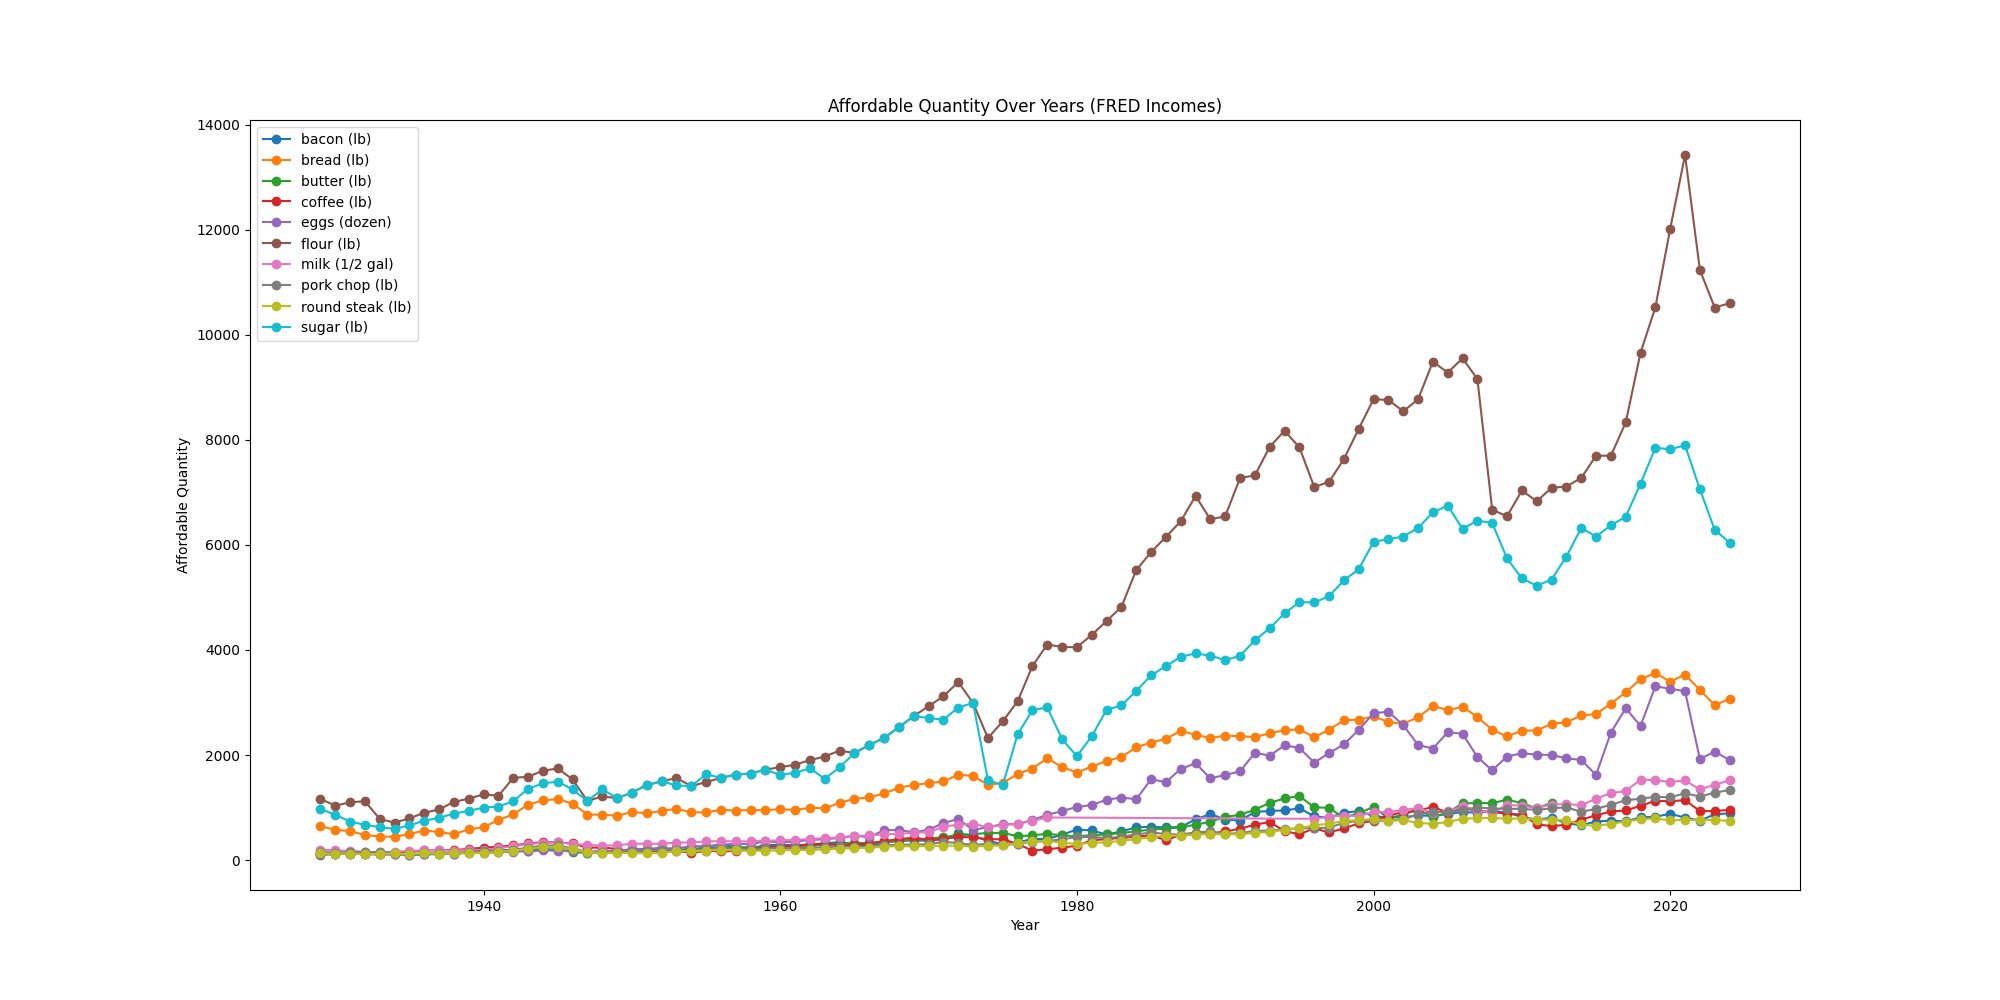
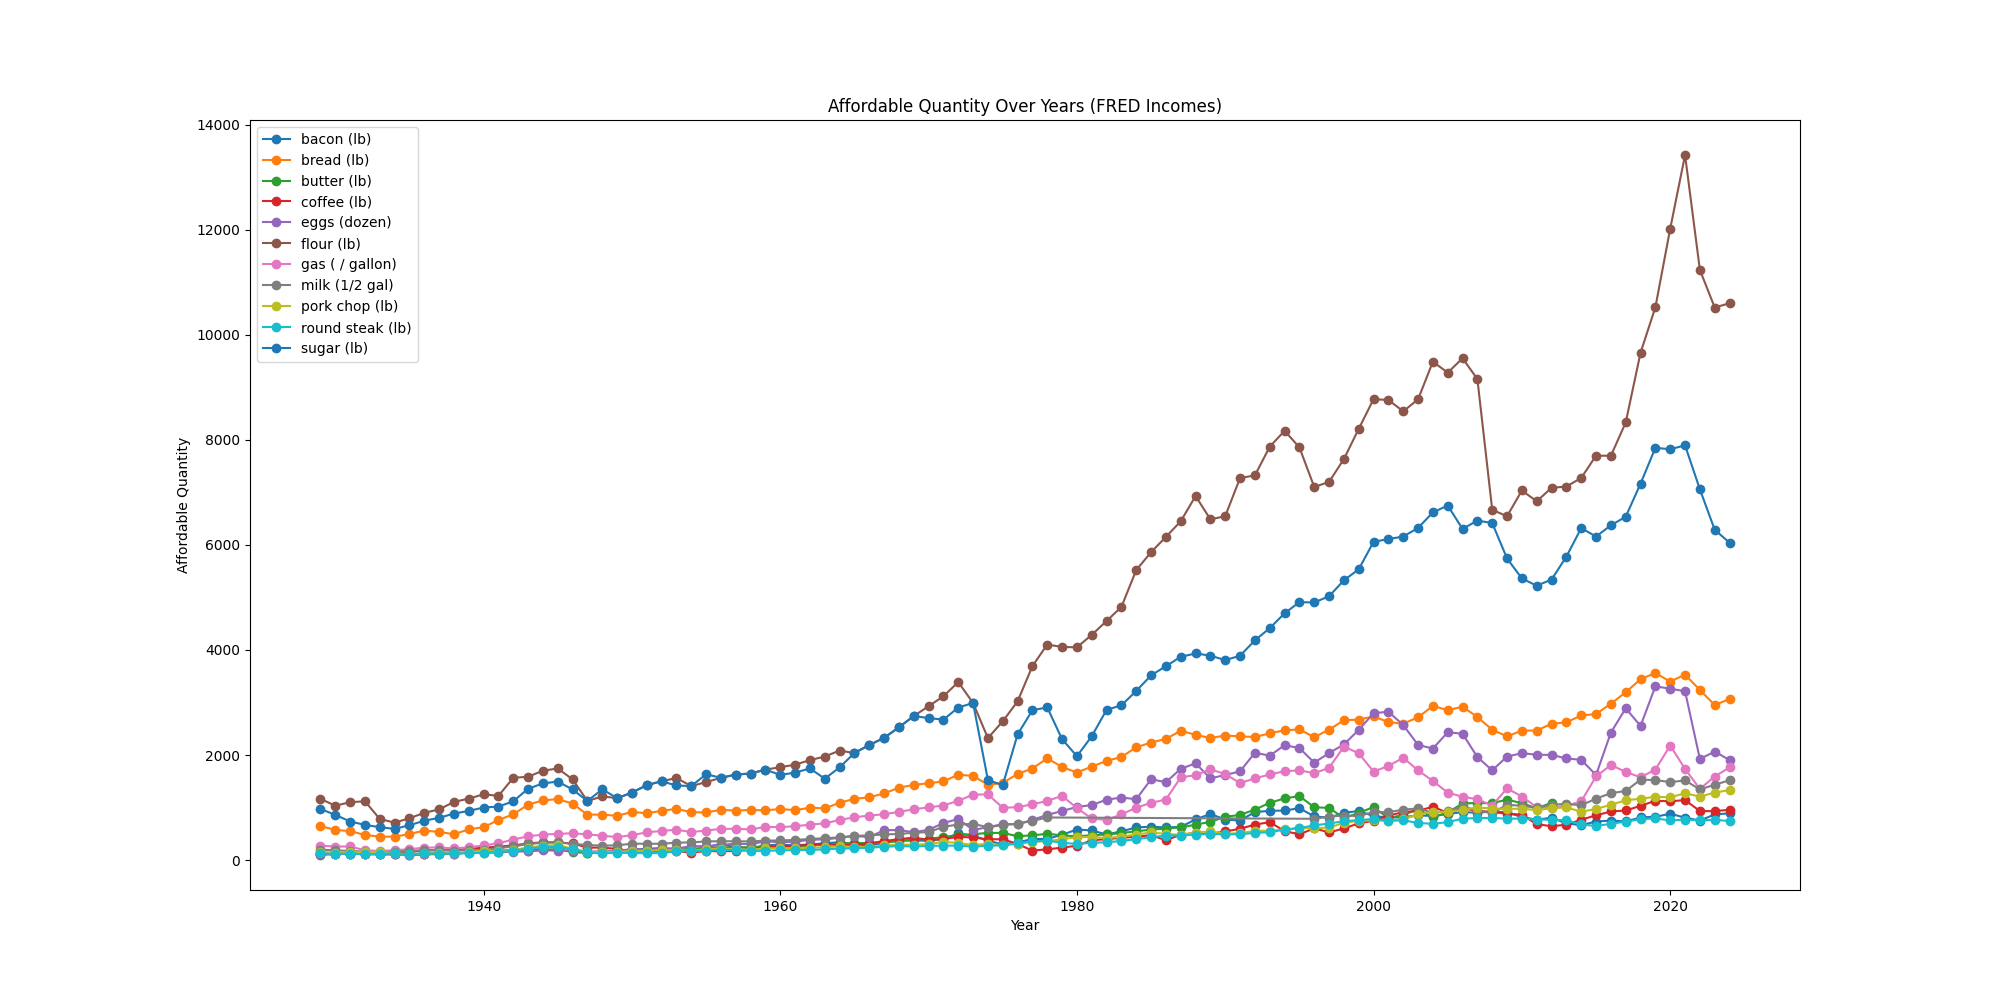
added gas

diff --git a/src/functions/db/fetch.py b/src/functions/db/fetch.py
@@ -45,68 +45,72 @@ def fetch_incomes(db_path, year_range=(1990, 2000), data_source_name='FRED', reg
         return json_output
 
 
+import sqlite3
+import pandas as pd
+import json
+
 def fetch_goods_prices(db_path, year_range=(1990, 2000), goods_list=None, use_year_averages=True, output_format='df'):
     """
-    Fetches goods prices from an SQLite database for a given year range and an optional list of goods.
-
-    If use_year_averages is True, only the July 2nd entries (which already contain the average values)
-    are fetched for every year. Otherwise, all entries except those on July 2nd are fetched.
+    Fetches goods prices from an SQLite database for a given year range and optional goods filter.
+    For years with multiple entries per good, only the latest date entry per year is retained.
 
     Args:
-        year_range (tuple): (start_year, end_year) for filtering by year.
-        goods_list (list or None): List of good names to filter on; if None, no filtering is applied.
-        use_year_averages (bool): If True, fetch only July 2nd entries; if False, fetch all entries excluding July 2nd.
-        output_format (str): 'df' returns a Pandas DataFrame (pivoted for averages), 'json' returns a JSON string.
+        db_path (str): Path to SQLite database.
+        year_range (tuple): (start_year, end_year) for filtering.
+        goods_list (list or None): List of good names; None fetches all goods.
+        use_year_averages (bool): If True, fetch only July 2nd entries; else exclude July 2nd entries.
+        output_format (str): 'df' returns DataFrame, 'json' returns JSON.
 
     Returns:
-        Either a Pandas DataFrame or a JSON string with the resulting data.
-        :rtype: df
+        DataFrame or JSON string.
     """
     try:
         connection = sqlite3.connect(db_path)
         connection.row_factory = sqlite3.Row
-        cursor = connection.cursor()
 
         start_year, end_year = year_range
         params = [start_year, end_year]
-        where_clause = "WHERE CAST(strftime('%Y', date) AS INTEGER) BETWEEN ? AND ?"
+
+        where_conditions = [
+            "CAST(strftime('%Y', date) AS INTEGER) BETWEEN ? AND ?"
+        ]
 
         if goods_list:
             placeholders = ','.join('?' for _ in goods_list)
-            where_clause += f" AND name IN ({placeholders})"
+            where_conditions.append(f"name IN ({placeholders})")
             params.extend(goods_list)
 
         if use_year_averages:
-            where_clause += " AND strftime('%m', date) = '07' AND strftime('%d', date) = '02'"
+            where_conditions.append("strftime('%m-%d', date) = '07-02'")
         else:
-            where_clause += " AND NOT (strftime('%m', date) = '07' AND strftime('%d', date) = '02')"
+            where_conditions.append("strftime('%m-%d', date) != '07-02'")
+
+        where_clause = ' AND '.join(where_conditions)
 
         query = f"""
-            SELECT *
+            SELECT name, price, date, good_unit, data_source
             FROM goods_prices
-            {where_clause}
-            ORDER BY date ASC;
+            WHERE {where_clause}
+            ORDER BY name ASC, date DESC
         """
 
-        cursor.execute(query, params)
-        rows = cursor.fetchall()
-        results = [dict(row) for row in rows]
+        df = pd.read_sql_query(query, connection, params=params)
+        df['year'] = pd.to_datetime(df['date']).dt.year
+
+        # Keep only the latest entry per good per year
+        df_unique = df.sort_values('date', ascending=False).drop_duplicates(subset=['name', 'year'], keep='first')
 
         if output_format == 'df':
-            df = pd.DataFrame(results)
-            df['year'] = df['date'].apply(lambda d: int(d[:4]) if isinstance(d, str) else d.year)
-            return df
+            df_unique.reset_index(drop=True, inplace=True)
+            return df_unique
         elif output_format == 'json':
-            return json.dumps(results)
+            return df_unique.to_json(orient='records', date_format='iso')
         else:
             raise ValueError("Output formats supported: 'df' or 'json'")
     except sqlite3.Error as e:
         return json.dumps({"error": str(e)})
     finally:
-        if 'cursor' in locals():
-            cursor.close()
-        if 'connection' in locals():
-            connection.close()
+        connection.close()
 
 
 def fetch_final_goods_affordable(db_path, year_range=(1990, 2000), goods_list=None, regions=None, income_data_source='FRED', salary_interval='monthly', output_format='df'):

diff --git a/scripts/python/data_visualization/visualize_final_goods.py b/scripts/python/data_visualization/visualize_final_goods.py
@@ -44,7 +44,7 @@ if __name__ == "__main__":
     plot_incomes_inf_final_goods(
         db_path='../../../data/db/sqlite/database.sqlite',
         year_range=(1929, 2024),
-        goods_list=['bacon', 'bread', 'butter', 'coffee', 'eggs', 'flour', 'milk', 'pork chop', 'round steak', 'sugar'],
+        goods_list=['bacon', 'bread', 'butter', 'coffee', 'eggs', 'flour', 'milk', 'pork chop', 'round steak', 'sugar', 'gas'],
         regions=['united states'],
         income_data_source='FRED',
         salary_interval='monthly',
